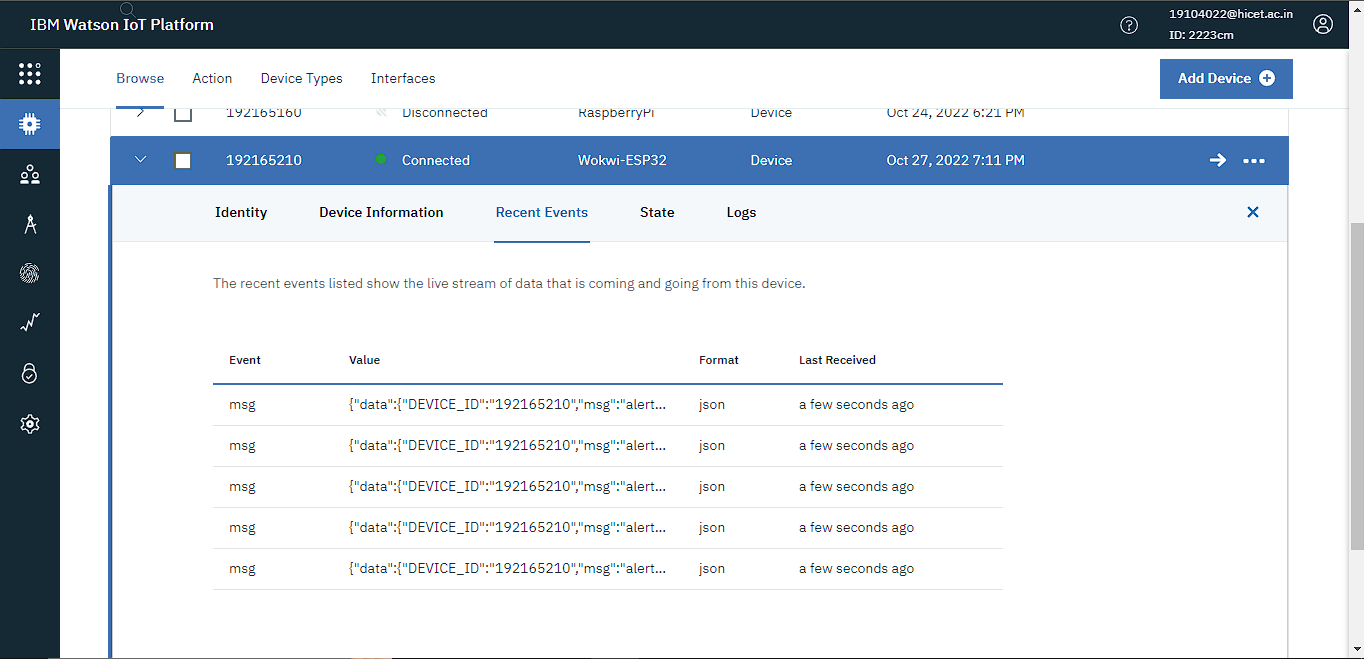
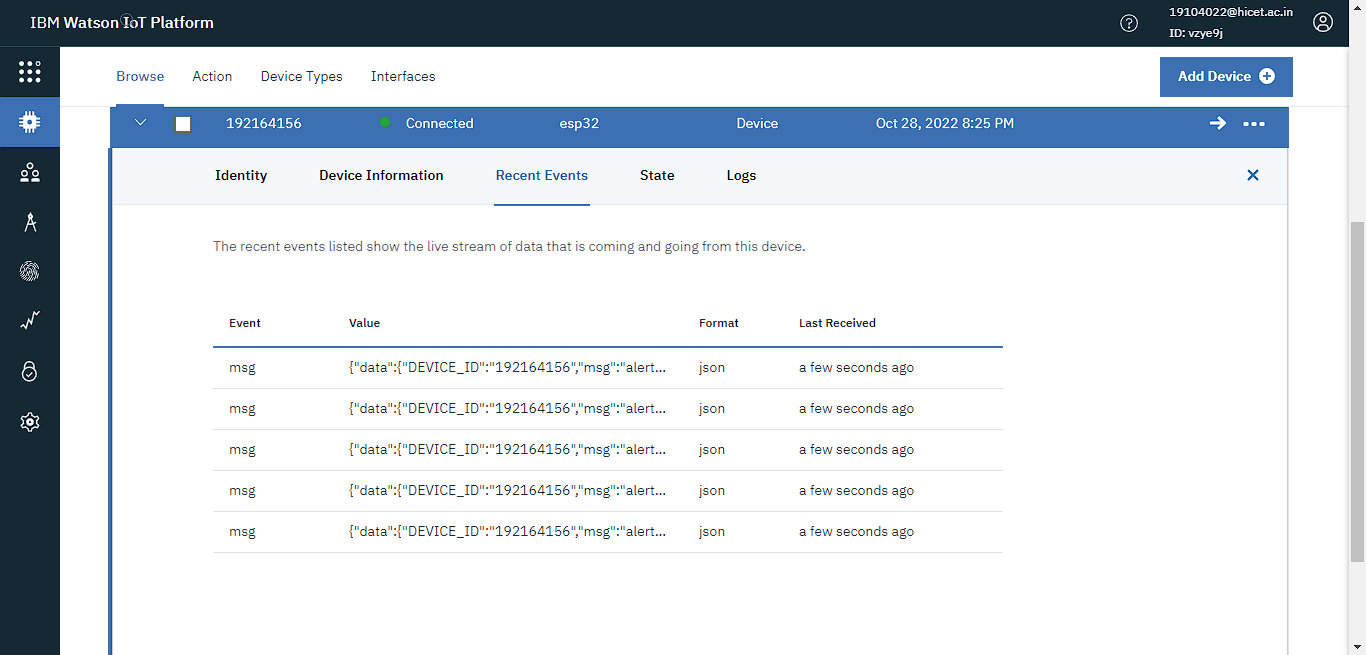
modified assignment 4,develop the python script,develop a web app using node-red

diff --git a/Develop The Python Script/ibm-python.py b/Develop The Python Script/ibm-python.py
@@ -3,12 +3,12 @@ import time
 import random
 myConfig = { 
     "identity": {
-        "orgId": "2223cm",
-        "typeId": "RaspberryPi",
-        "deviceId":"192165160"
+        "orgId": "vzye9j",
+        "typeId": "raspberrypi",
+        "deviceId":"192156789"
     },
     "auth": {
-        "token": "147258369"
+        "token": "147852963"
     }
 }
 
